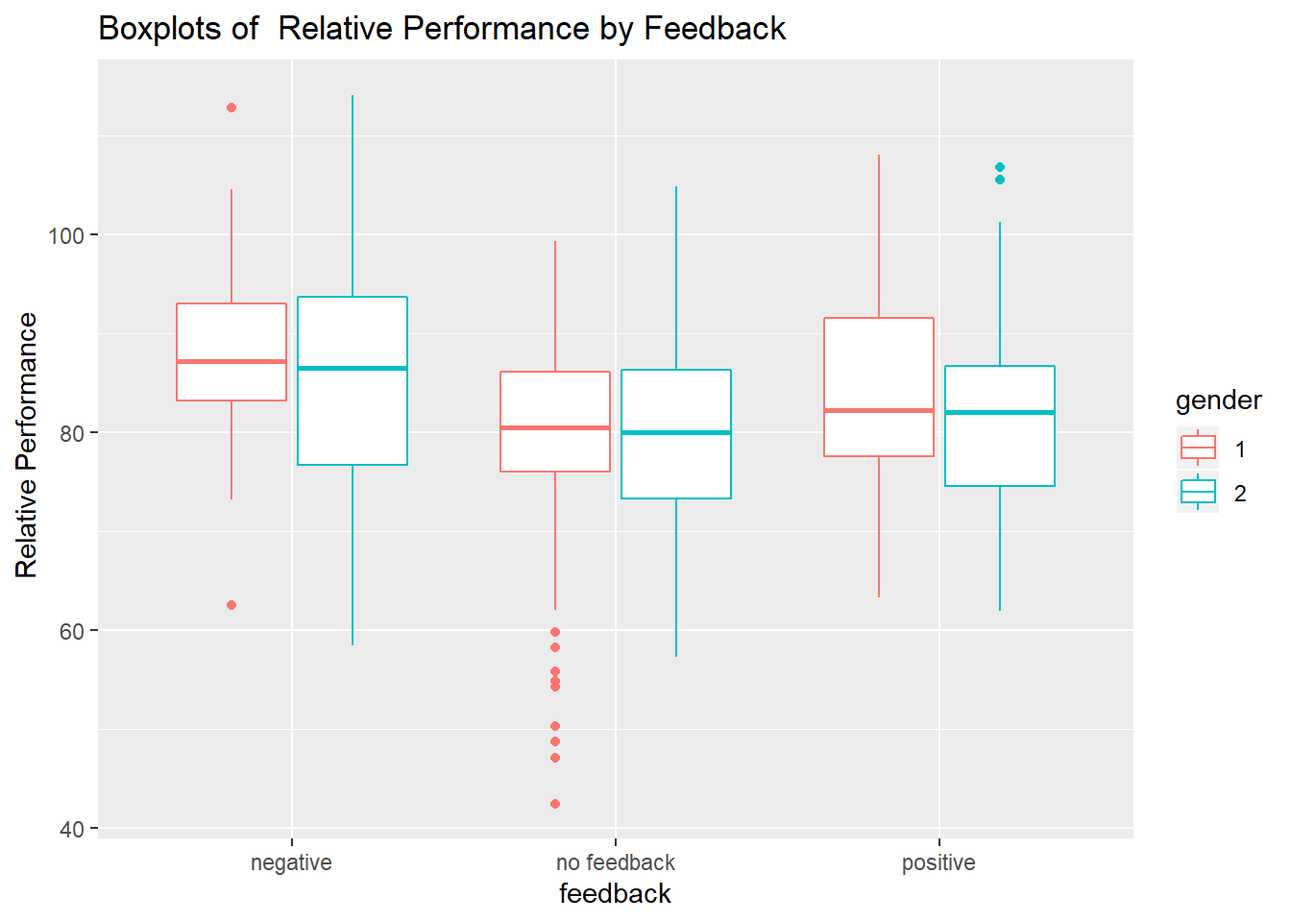
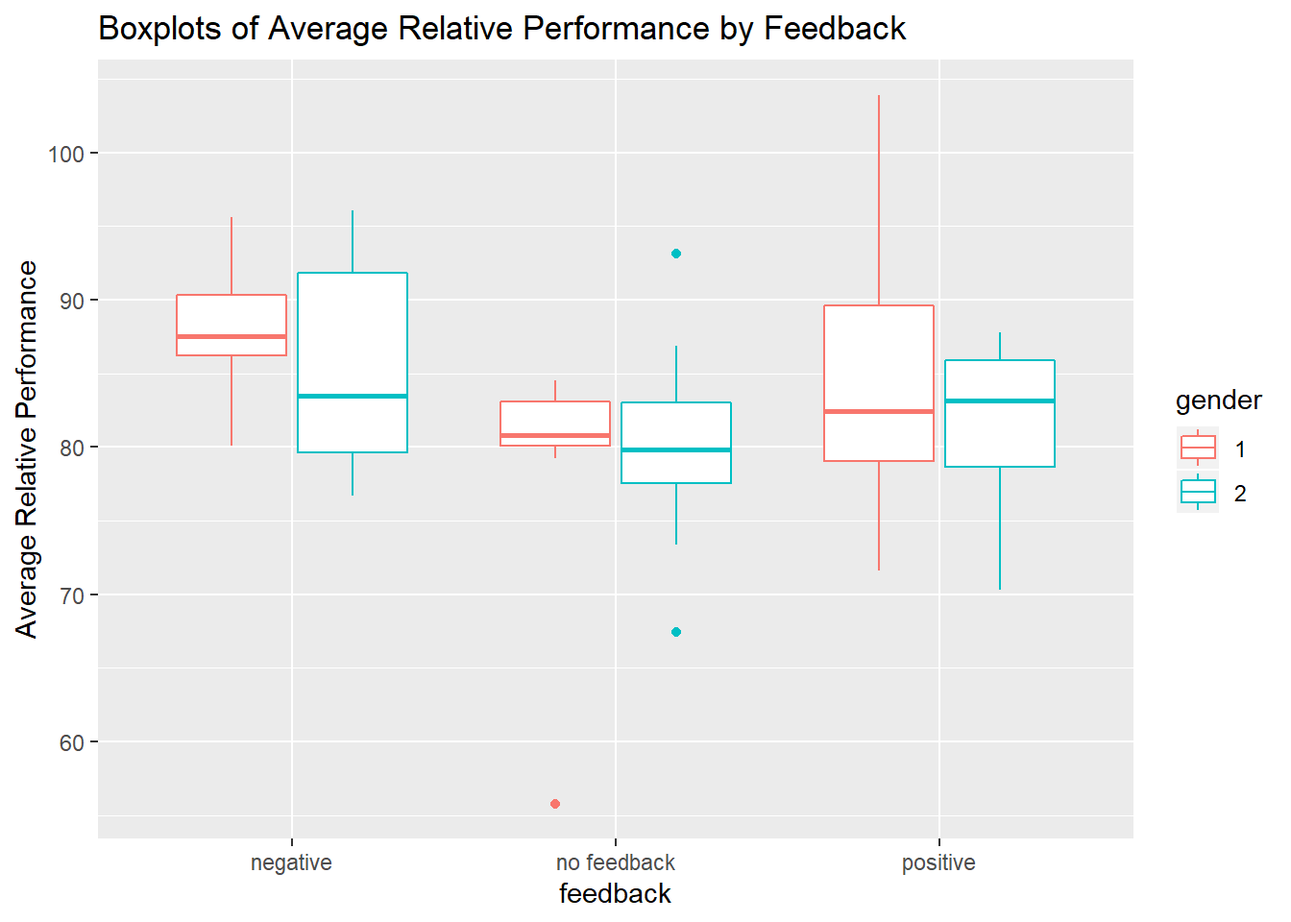
update anova

diff --git a/anova.html b/anova.html
@@ -476,9 +476,9 @@ div.tocify {
 ## 
 ## Linear Hypotheses:
 ##            Estimate Std. Error t value Pr(&gt;|t|)   
-## 2 - 1 == 0  -0.2741     0.6719  -0.408   0.9125   
-## 3 - 1 == 0   1.8481     0.6719   2.751   0.0201 * 
-## 3 - 2 == 0   2.1222     0.6518   3.256   0.0047 **
+## 2 - 1 == 0  -0.2741     0.6719  -0.408  0.91244   
+## 3 - 1 == 0   1.8481     0.6719   2.751  0.02003 * 
+## 3 - 2 == 0   2.1222     0.6518   3.256  0.00477 **
 ## ---
 ## Signif. codes:  0 &#39;***&#39; 0.001 &#39;**&#39; 0.01 &#39;*&#39; 0.05 &#39;.&#39; 0.1 &#39; &#39; 1
 ## (Adjusted p values reported -- single-step method)</code></pre>
@@ -562,15 +562,15 @@ div.tocify {
 ## 
 ## Fit: aov(formula = weight_loss ~ Diet, data = diet)
 ## 
-## Quantile = 2.3907
+## Quantile = 2.391
 ## 95% family-wise confidence level
 ##  
 ## 
 ## Linear Hypotheses:
 ##            Estimate lwr     upr    
-## 2 - 1 == 0 -0.2741  -1.8803  1.3322
-## 3 - 1 == 0  1.8481   0.2419  3.4544
-## 3 - 2 == 0  2.1222   0.5639  3.6805</code></pre>
+## 2 - 1 == 0 -0.2741  -1.8805  1.3324
+## 3 - 1 == 0  1.8481   0.2417  3.4546
+## 3 - 2 == 0  2.1222   0.5637  3.6807</code></pre>
 <div class="sourceCode" id="cb35"><pre class="sourceCode r"><code class="sourceCode r"><span id="cb35-1"><a href="#cb35-1" aria-hidden="true" tabindex="-1"></a><span class="fu">plot</span>(pairwise_ci_tukey, <span class="at">xlab =</span> <span class="st">&quot;Weight loss diff&quot;</span>)</span></code></pre></div>
 <p><img src="anova_files/figure-html/unnamed-chunk-11-1.png" width="672" /></p>
 </div>
@@ -646,7 +646,7 @@ H_0: \frac{\alpha_1+\alpha_2}{2}-\alpha_3=0 \leftrightarrow  \frac{\mu_1 + \mu_2
 <span id="cb42-3"><a href="#cb42-3" aria-hidden="true" tabindex="-1"></a>  <span class="fu">geom_boxplot</span>(<span class="at">outlier.colour=</span><span class="st">&quot;red&quot;</span>, <span class="at">outlier.shape=</span><span class="dv">8</span>,<span class="at">outlier.size=</span><span class="dv">2</span>) <span class="sc">+</span></span>
 <span id="cb42-4"><a href="#cb42-4" aria-hidden="true" tabindex="-1"></a>  <span class="fu">labs</span>(<span class="at">x=</span><span class="st">&quot;Diet Type&quot;</span>, <span class="at">y=</span> <span class="st">&quot;Weight Loss&quot;</span>) <span class="sc">+</span></span>
 <span id="cb42-5"><a href="#cb42-5" aria-hidden="true" tabindex="-1"></a>  <span class="fu">scale_color_discrete</span>(<span class="at">name =</span> <span class="st">&quot;Gender&quot;</span>, <span class="at">labels =</span> <span class="fu">c</span>(<span class="st">&quot;Female&quot;</span>, <span class="st">&quot;Male&quot;</span>))</span></code></pre></div>
-<p><img src="anova_files/figure-html/diet: Boxplot of weight lost by gender-1.png" width="672" /></p>
+<p><img src="anova_files/figure-html/diet%20Boxplot%20of%20weight%20lost%20by%20gender-1.png" width="672" /></p>
 <div class="sourceCode" id="cb43"><pre class="sourceCode r"><code class="sourceCode r"><span id="cb43-1"><a href="#cb43-1" aria-hidden="true" tabindex="-1"></a>diet.aov2 <span class="ot">=</span> <span class="fu">aov</span>( weight_loss<span class="sc">~</span>Diet <span class="sc">+</span> gender ,<span class="at">data=</span>diet)</span>
 <span id="cb43-2"><a href="#cb43-2" aria-hidden="true" tabindex="-1"></a><span class="fu">summary</span>(diet.aov2) </span></code></pre></div>
 <pre><code>##             Df Sum Sq Mean Sq F value  Pr(&gt;F)   
@@ -657,7 +657,7 @@ H_0: \frac{\alpha_1+\alpha_2}{2}-\alpha_3=0 \leftrightarrow  \frac{\mu_1 + \mu_2
 ## Signif. codes:  0 &#39;***&#39; 0.001 &#39;**&#39; 0.01 &#39;*&#39; 0.05 &#39;.&#39; 0.1 &#39; &#39; 1
 ## 2 observations deleted due to missingness</code></pre>
 <div class="sourceCode" id="cb45"><pre class="sourceCode r"><code class="sourceCode r"><span id="cb45-1"><a href="#cb45-1" aria-hidden="true" tabindex="-1"></a><span class="fu">plot</span>(diet.aov2)</span></code></pre></div>
-<p><img src="anova_files/figure-html/diet: two-way checking assumptions-1.png" width="672" /><img src="anova_files/figure-html/diet: two-way checking assumptions-2.png" width="672" /><img src="anova_files/figure-html/diet: two-way checking assumptions-3.png" width="672" /><img src="anova_files/figure-html/diet: two-way checking assumptions-4.png" width="672" /></p>
+<p><img src="anova_files/figure-html/diet%20two-way%20checking%20assumptions-1.png" width="672" /><img src="anova_files/figure-html/diet%20two-way%20checking%20assumptions-2.png" width="672" /><img src="anova_files/figure-html/diet%20two-way%20checking%20assumptions-3.png" width="672" /><img src="anova_files/figure-html/diet%20two-way%20checking%20assumptions-4.png" width="672" /></p>
 <p><strong>F tests:</strong></p>
 <div class="sourceCode" id="cb46"><pre class="sourceCode r"><code class="sourceCode r"><span id="cb46-1"><a href="#cb46-1" aria-hidden="true" tabindex="-1"></a>diet.aov <span class="ot">=</span> <span class="fu">aov</span>(weight_loss<span class="sc">~</span>Diet,<span class="at">data=</span>diet[<span class="sc">!</span><span class="fu">is.na</span>(diet<span class="sc">$</span>gender),] )</span>
 <span id="cb46-2"><a href="#cb46-2" aria-hidden="true" tabindex="-1"></a><span class="fu">anova</span>( diet.aov, diet.aov2)</span></code></pre></div>
@@ -692,7 +692,7 @@ H_0: \frac{\alpha_1+\alpha_2}{2}-\alpha_3=0 \leftrightarrow  \frac{\mu_1 + \mu_2
 <span id="cb50-8"><a href="#cb50-8" aria-hidden="true" tabindex="-1"></a>                 <span class="at">pch=</span><span class="fu">c</span>(<span class="dv">1</span>,<span class="dv">8</span>), <span class="at">col =</span> <span class="fu">c</span>(<span class="st">&quot;#FF6347&quot;</span>, <span class="st">&quot;#3CB371&quot;</span>))</span></code></pre></div>
 <p><img src="anova_files/figure-html/interatcion%20plot%20diet-1.png" width="672" /></p>
 <div class="sourceCode" id="cb51"><pre class="sourceCode r"><code class="sourceCode r"><span id="cb51-1"><a href="#cb51-1" aria-hidden="true" tabindex="-1"></a><span class="fu">plot</span>(diet.aov2_intr)</span></code></pre></div>
-<p><img src="anova_files/figure-html/two-way%20with%20interaction%20checking%20assumptions-1.png" width="672" /><img src="anova_files/figure-html/two-way%20with%20interaction%20checking%20assumptions-2.png" width="672" /><img src="anova_files/figure-html/two-way%20with%20interaction%20checking%20assumptions-3.png" width="672" /><img src="anova_files/figure-html/two-way%20with%20interaction%20checking%20assumptions-4.png" width="672" /></p>
+<p><img src="anova_files/figure-html/unnamed-chunk-16-1.png" width="672" /><img src="anova_files/figure-html/unnamed-chunk-16-2.png" width="672" /><img src="anova_files/figure-html/unnamed-chunk-16-3.png" width="672" /><img src="anova_files/figure-html/unnamed-chunk-16-4.png" width="672" /></p>
 <p><strong>Levin’s test</strong></p>
 <div class="sourceCode" id="cb52"><pre class="sourceCode r"><code class="sourceCode r"><span id="cb52-1"><a href="#cb52-1" aria-hidden="true" tabindex="-1"></a>diet <span class="ot">=</span> diet[<span class="sc">!</span><span class="fu">is.na</span>(diet<span class="sc">$</span>gender),]</span>
 <span id="cb52-2"><a href="#cb52-2" aria-hidden="true" tabindex="-1"></a>groups_df <span class="ot">=</span> <span class="fu">cbind</span> ( <span class="fu">expand.grid</span>(<span class="at">Diet =</span> <span class="fu">unique</span>(diet<span class="sc">$</span>Diet),<span class="at">gender =</span>  <span class="fu">unique</span>(diet<span class="sc">$</span>gender)), <span class="at">group =</span> <span class="fu">factor</span>(<span class="dv">1</span><span class="sc">:</span><span class="dv">6</span>))</span>
@@ -992,30 +992,30 @@ Ranking of movies from different genres by women and men.</p>
 <span id="cb82-3"><a href="#cb82-3" aria-hidden="true" tabindex="-1"></a>  <span class="fu">ggplot</span>(<span class="fu">aes</span>(<span class="at">x=</span>feedback , <span class="at">y=</span>mean_per, <span class="at">color =</span> feedback)) <span class="sc">+</span></span>
 <span id="cb82-4"><a href="#cb82-4" aria-hidden="true" tabindex="-1"></a>  <span class="fu">geom_boxplot</span>() <span class="sc">+</span> <span class="fu">theme</span>(<span class="at">legend.position =</span> <span class="st">&quot;&quot;</span>) <span class="sc">+</span></span>
 <span id="cb82-5"><a href="#cb82-5" aria-hidden="true" tabindex="-1"></a>  <span class="fu">labs</span>(<span class="at">title =</span> <span class="st">&quot;Boxplots of Average Relative Performance by Feedback&quot;</span> , <span class="at">y =</span> <span class="st">&quot;Average Relative Performance&quot;</span>)</span></code></pre></div>
-<p><img src="anova_files/figure-html/unnamed-chunk-27-1.png" width="672" /></p>
+<p><img src="anova_files/figure-html/unnamed-chunk-28-1.png" width="672" /></p>
 <div class="sourceCode" id="cb83"><pre class="sourceCode r"><code class="sourceCode r"><span id="cb83-1"><a href="#cb83-1" aria-hidden="true" tabindex="-1"></a>feedback_long_df_mvc <span class="sc">%&gt;%</span> </span>
 <span id="cb83-2"><a href="#cb83-2" aria-hidden="true" tabindex="-1"></a>  <span class="fu">ggplot</span>(<span class="fu">aes</span>(<span class="at">x=</span>feedback , <span class="at">y=</span>performance, <span class="at">color =</span> feedback)) <span class="sc">+</span></span>
 <span id="cb83-3"><a href="#cb83-3" aria-hidden="true" tabindex="-1"></a>  <span class="fu">geom_boxplot</span>() <span class="sc">+</span> <span class="fu">theme</span>(<span class="at">legend.position =</span> <span class="st">&quot;&quot;</span>) <span class="sc">+</span></span>
 <span id="cb83-4"><a href="#cb83-4" aria-hidden="true" tabindex="-1"></a>  <span class="fu">labs</span>(<span class="at">title =</span> <span class="st">&quot;Boxplots of Relative Performance by Feedback&quot;</span> , <span class="at">y =</span> <span class="st">&quot;Relative Performance&quot;</span>)</span></code></pre></div>
-<p><img src="anova_files/figure-html/unnamed-chunk-28-1.png" width="672" /></p>
+<p><img src="anova_files/figure-html/unnamed-chunk-29-1.png" width="672" /></p>
 <div class="sourceCode" id="cb84"><pre class="sourceCode r"><code class="sourceCode r"><span id="cb84-1"><a href="#cb84-1" aria-hidden="true" tabindex="-1"></a>feedback_long_df_mvc <span class="sc">%&gt;%</span> <span class="fu">group_by</span>(id, feedback, gender) <span class="sc">%&gt;%</span></span>
 <span id="cb84-2"><a href="#cb84-2" aria-hidden="true" tabindex="-1"></a>  <span class="fu">summarise</span>(<span class="at">mean_per =</span> <span class="fu">mean</span>(performance)) <span class="sc">%&gt;%</span></span>
 <span id="cb84-3"><a href="#cb84-3" aria-hidden="true" tabindex="-1"></a>  <span class="fu">ggplot</span>(<span class="fu">aes</span>(<span class="at">x=</span>feedback , <span class="at">y=</span>mean_per, <span class="at">color =</span> gender)) <span class="sc">+</span></span>
 <span id="cb84-4"><a href="#cb84-4" aria-hidden="true" tabindex="-1"></a>  <span class="fu">geom_boxplot</span>() <span class="sc">+</span></span>
 <span id="cb84-5"><a href="#cb84-5" aria-hidden="true" tabindex="-1"></a>  <span class="fu">labs</span>(<span class="at">title =</span> <span class="st">&quot;Boxplots of Average Relative Performance by Feedback&quot;</span> , <span class="at">y =</span> <span class="st">&quot;Average Relative Performance&quot;</span>)</span></code></pre></div>
-<p><img src="anova_files/figure-html/unnamed-chunk-29-1.png" width="672" /></p>
+<p><img src="anova_files/figure-html/unnamed-chunk-30-1.png" width="672" /></p>
 <div class="sourceCode" id="cb85"><pre class="sourceCode r"><code class="sourceCode r"><span id="cb85-1"><a href="#cb85-1" aria-hidden="true" tabindex="-1"></a>feedback_long_df_mvc <span class="sc">%&gt;%</span> </span>
 <span id="cb85-2"><a href="#cb85-2" aria-hidden="true" tabindex="-1"></a>  <span class="fu">ggplot</span>(<span class="fu">aes</span>(<span class="at">x=</span>feedback , <span class="at">y=</span>performance, <span class="at">color =</span> gender)) <span class="sc">+</span></span>
 <span id="cb85-3"><a href="#cb85-3" aria-hidden="true" tabindex="-1"></a>  <span class="fu">geom_boxplot</span>() <span class="sc">+</span></span>
 <span id="cb85-4"><a href="#cb85-4" aria-hidden="true" tabindex="-1"></a>  <span class="fu">labs</span>(<span class="at">title =</span> <span class="st">&quot;Boxplots of  Relative Performance by Feedback&quot;</span> , <span class="at">y =</span> <span class="st">&quot; Relative Performance&quot;</span>)</span></code></pre></div>
-<p><img src="anova_files/figure-html/unnamed-chunk-30-1.png" width="672" /></p>
+<p><img src="anova_files/figure-html/unnamed-chunk-31-1.png" width="672" /></p>
 <div class="sourceCode" id="cb86"><pre class="sourceCode r"><code class="sourceCode r"><span id="cb86-1"><a href="#cb86-1" aria-hidden="true" tabindex="-1"></a>feedback_long_df_mvc <span class="sc">%&gt;%</span> <span class="fu">group_by</span>(feedback, time) <span class="sc">%&gt;%</span> <span class="fu">summarise</span>(<span class="at">mean_perf =</span> <span class="fu">mean</span>(performance)) <span class="sc">%&gt;%</span></span>
 <span id="cb86-2"><a href="#cb86-2" aria-hidden="true" tabindex="-1"></a>  <span class="fu">ggplot</span>(<span class="fu">aes</span>(<span class="at">x=</span><span class="fu">factor</span>(time) , <span class="at">y=</span>mean_perf, <span class="at">color =</span> feedback, <span class="at">group =</span> feedback)) <span class="sc">+</span></span>
 <span id="cb86-3"><a href="#cb86-3" aria-hidden="true" tabindex="-1"></a>  <span class="fu">geom_point</span>() <span class="sc">+</span> </span>
 <span id="cb86-4"><a href="#cb86-4" aria-hidden="true" tabindex="-1"></a>  <span class="fu">geom_line</span>(<span class="at">alpha=</span>.<span class="dv">5</span>, <span class="at">size =</span> <span class="fl">1.5</span>) <span class="sc">+</span> </span>
 <span id="cb86-5"><a href="#cb86-5" aria-hidden="true" tabindex="-1"></a>  <span class="fu">labs</span>(<span class="at">title =</span> <span class="st">&quot;Average Relative Performance by Feedback &amp; Time&quot;</span> ,</span>
 <span id="cb86-6"><a href="#cb86-6" aria-hidden="true" tabindex="-1"></a>       <span class="at">x =</span> <span class="st">&quot;Repetitions&quot;</span> , <span class="at">y =</span> <span class="st">&quot;Average Relative Performance&quot;</span>)</span></code></pre></div>
-<p><img src="anova_files/figure-html/unnamed-chunk-31-1.png" width="672" /></p>
+<p><img src="anova_files/figure-html/unnamed-chunk-32-1.png" width="672" /></p>
 <div class="sourceCode" id="cb87"><pre class="sourceCode r"><code class="sourceCode r"><span id="cb87-1"><a href="#cb87-1" aria-hidden="true" tabindex="-1"></a>feedback_long_df_mvc <span class="sc">%&gt;%</span> <span class="fu">group_by</span>(feedback, time, gender) <span class="sc">%&gt;%</span> <span class="fu">summarise</span>(<span class="at">mean_perf =</span> <span class="fu">mean</span>(performance)) <span class="sc">%&gt;%</span></span>
 <span id="cb87-2"><a href="#cb87-2" aria-hidden="true" tabindex="-1"></a>  <span class="fu">ggplot</span>(<span class="fu">aes</span>(<span class="at">x=</span><span class="fu">factor</span>(time) , <span class="at">y=</span>mean_perf, <span class="at">color =</span> feedback, <span class="at">group =</span> feedback)) <span class="sc">+</span></span>
 <span id="cb87-3"><a href="#cb87-3" aria-hidden="true" tabindex="-1"></a>  <span class="fu">geom_point</span>() <span class="sc">+</span> </span>
@@ -1023,7 +1023,7 @@ Ranking of movies from different genres by women and men.</p>
 <span id="cb87-5"><a href="#cb87-5" aria-hidden="true" tabindex="-1"></a>  <span class="fu">facet_wrap</span>(<span class="sc">~</span>gender) <span class="sc">+</span> <span class="fu">theme</span>(<span class="at">legend.position =</span> <span class="st">&quot;bottom&quot;</span>) <span class="sc">+</span></span>
 <span id="cb87-6"><a href="#cb87-6" aria-hidden="true" tabindex="-1"></a>  <span class="fu">labs</span>(<span class="at">title =</span> <span class="st">&quot;Average Relative Performance by Feedback &amp; Time&quot;</span> , <span class="at">subtitle =</span> <span class="st">&quot;Facet by gender&quot;</span>,</span>
 <span id="cb87-7"><a href="#cb87-7" aria-hidden="true" tabindex="-1"></a>       <span class="at">x =</span> <span class="st">&quot;Repetitions&quot;</span> , <span class="at">y =</span> <span class="st">&quot;Average Relative Performance&quot;</span>)</span></code></pre></div>
-<p><img src="anova_files/figure-html/unnamed-chunk-32-1.png" width="672" /></p>
+<p><img src="anova_files/figure-html/unnamed-chunk-33-1.png" width="672" /></p>
 </div>
 <div id="analysis" class="section level3">
 <h3>Analysis</h3>
@@ -1054,11 +1054,11 @@ Ranking of movies from different genres by women and men.</p>
 <div class="sourceCode" id="cb92"><pre class="sourceCode r"><code class="sourceCode r"><span id="cb92-1"><a href="#cb92-1" aria-hidden="true" tabindex="-1"></a><span class="fu">ggplot</span>(feedback_long_df_mvc, <span class="fu">aes</span>(<span class="at">x =</span> gender, <span class="at">y =</span> performance, <span class="at">group =</span> feedback, <span class="at">col =</span> feedback)) <span class="sc">+</span> </span>
 <span id="cb92-2"><a href="#cb92-2" aria-hidden="true" tabindex="-1"></a>   <span class="fu">stat_summary</span>(<span class="at">fun.y =</span> mean, <span class="at">geom =</span> <span class="st">&quot;line&quot;</span>, <span class="at">size =</span> <span class="fl">1.5</span>) <span class="sc">+</span></span>
 <span id="cb92-3"><a href="#cb92-3" aria-hidden="true" tabindex="-1"></a>  <span class="fu">labs</span>(<span class="at">x=</span> <span class="st">&quot;Gender&quot;</span>, <span class="at">y=</span><span class="st">&quot;Relative Performance&quot;</span>)</span></code></pre></div>
-<p><img src="anova_files/figure-html/unnamed-chunk-35-1.png" width="672" /></p>
+<p><img src="anova_files/figure-html/unnamed-chunk-36-1.png" width="672" /></p>
 <div class="sourceCode" id="cb93"><pre class="sourceCode r"><code class="sourceCode r"><span id="cb93-1"><a href="#cb93-1" aria-hidden="true" tabindex="-1"></a><span class="fu">ggplot</span>(feedback_long_df_mvc, <span class="fu">aes</span>(<span class="at">x =</span> feedback, <span class="at">y =</span> performance, <span class="at">group =</span> gender, <span class="at">col =</span> gender)) <span class="sc">+</span> </span>
 <span id="cb93-2"><a href="#cb93-2" aria-hidden="true" tabindex="-1"></a>   <span class="fu">stat_summary</span>(<span class="at">fun.y =</span> mean, <span class="at">geom =</span> <span class="st">&quot;line&quot;</span>, <span class="at">size =</span> <span class="fl">1.5</span>) <span class="sc">+</span></span>
 <span id="cb93-3"><a href="#cb93-3" aria-hidden="true" tabindex="-1"></a>  <span class="fu">labs</span>(<span class="at">x=</span> <span class="st">&quot;Feedback&quot;</span>, <span class="at">y=</span><span class="st">&quot;Relative Performance&quot;</span>)</span></code></pre></div>
-<p><img src="anova_files/figure-html/unnamed-chunk-36-1.png" width="672" /></p>
+<p><img src="anova_files/figure-html/unnamed-chunk-37-1.png" width="672" /></p>
 <div class="sourceCode" id="cb94"><pre class="sourceCode r"><code class="sourceCode r"><span id="cb94-1"><a href="#cb94-1" aria-hidden="true" tabindex="-1"></a>fe.fit<span class="fl">.3</span> <span class="ot">=</span> <span class="fu">aov</span>(performance <span class="sc">~</span> feedback <span class="sc">*</span> gender , <span class="at">data =</span> feedback_long_df_mvc)</span>
 <span id="cb94-2"><a href="#cb94-2" aria-hidden="true" tabindex="-1"></a><span class="fu">anova</span>(fe.fit<span class="fl">.3</span>)</span></code></pre></div>
 <pre><code>## Analysis of Variance Table
@@ -1114,18 +1114,18 @@ Ranking of movies from different genres by women and men.</p>
 <span id="cb103-2"><a href="#cb103-2" aria-hidden="true" tabindex="-1"></a>feed_fit.<span class="fl">1.</span>predict <span class="ot">=</span> <span class="fu">predict</span>(feed_fit<span class="fl">.1</span>)</span>
 <span id="cb103-3"><a href="#cb103-3" aria-hidden="true" tabindex="-1"></a><span class="fu">plot</span>(feed_fit.<span class="fl">1.</span>predict,feed_fit.<span class="fl">1.</span>resid, <span class="at">xlab =</span> <span class="st">&quot;Fitted Values&quot;</span>, <span class="at">ylab =</span> <span class="st">&quot;Residuals&quot;</span>)</span>
 <span id="cb103-4"><a href="#cb103-4" aria-hidden="true" tabindex="-1"></a><span class="fu">abline</span>(<span class="dv">0</span>,<span class="dv">0</span>, <span class="at">col =</span> <span class="st">&quot;red&quot;</span>)</span></code></pre></div>
-<p><img src="anova_files/figure-html/Feedback: One-way Random Effect - checking assumptions-1.png" width="672" /></p>
+<p><img src="anova_files/figure-html/Feedback%20One%20way%20Random%20Effect%20%20checking%20assumptions-1.png" width="672" /></p>
 <div class="sourceCode" id="cb104"><pre class="sourceCode r"><code class="sourceCode r"><span id="cb104-1"><a href="#cb104-1" aria-hidden="true" tabindex="-1"></a>sresid <span class="ot">=</span> feed_fit.<span class="fl">1.</span>resid <span class="sc">/</span> <span class="fu">sd</span>(feed_fit.<span class="fl">1.</span>resid)</span>
 <span id="cb104-2"><a href="#cb104-2" aria-hidden="true" tabindex="-1"></a><span class="fu">qqnorm</span>(sresid) </span>
 <span id="cb104-3"><a href="#cb104-3" aria-hidden="true" tabindex="-1"></a><span class="fu">abline</span>(<span class="at">a =</span> <span class="dv">0</span> , <span class="at">b =</span> <span class="dv">1</span>) <span class="co"># add line: y=x </span></span></code></pre></div>
-<p><img src="anova_files/figure-html/Feedback: One-way Random Effect - checking assumptions2-1.png" width="672" /></p>
+<p><img src="anova_files/figure-html/Feedback%20One%20way%20Random%20Effect%20%20checking%20assumptions2-1.png" width="672" /></p>
 <div class="sourceCode" id="cb105"><pre class="sourceCode r"><code class="sourceCode r"><span id="cb105-1"><a href="#cb105-1" aria-hidden="true" tabindex="-1"></a><span class="co"># we can also use: </span></span>
 <span id="cb105-2"><a href="#cb105-2" aria-hidden="true" tabindex="-1"></a><span class="co"># qqline(sresid)</span></span></code></pre></div>
 <p>We can also get “estimates” (conditional means) of the random effects <span class="math inline">\(a_i\)</span> with the function <code>ranef</code>:</p>
 <div class="sourceCode" id="cb106"><pre class="sourceCode r"><code class="sourceCode r"><span id="cb106-1"><a href="#cb106-1" aria-hidden="true" tabindex="-1"></a>sresid_ref <span class="ot">=</span> <span class="fu">ranef</span>(feed_fit<span class="fl">.1</span>)<span class="sc">$</span>id[, <span class="st">&quot;(Intercept)&quot;</span>] <span class="sc">/</span> <span class="fu">sd</span>(<span class="fu">ranef</span>(feed_fit<span class="fl">.1</span>)<span class="sc">$</span>id[, <span class="st">&quot;(Intercept)&quot;</span>])</span>
 <span id="cb106-2"><a href="#cb106-2" aria-hidden="true" tabindex="-1"></a><span class="fu">qqnorm</span>(sresid_ref, <span class="at">main =</span> <span class="st">&quot;Random effects&quot;</span>)</span>
 <span id="cb106-3"><a href="#cb106-3" aria-hidden="true" tabindex="-1"></a><span class="fu">qqline</span>(sresid_ref)</span></code></pre></div>
-<p><img src="anova_files/figure-html/Feedback: One-way Random Effect - checking assumptions3-1.png" width="672" /></p>
+<p><img src="anova_files/figure-html/Feedback%20One%20way%20Random%20Effect%20%20checking%20assumptions3-1.png" width="672" /></p>
 </div>
 <div id="mixed-model-random-effect" class="section level4">
 <h4>Mixed Model Random Effect</h4>
@@ -1192,11 +1192,11 @@ Ranking of movies from different genres by women and men.</p>
 <span id="cb114-17"><a href="#cb114-17" aria-hidden="true" tabindex="-1"></a>  <span class="fu">qqline</span>(sresid)</span>
 <span id="cb114-18"><a href="#cb114-18" aria-hidden="true" tabindex="-1"></a>}</span></code></pre></div>
 <div class="sourceCode" id="cb115"><pre class="sourceCode r"><code class="sourceCode r"><span id="cb115-1"><a href="#cb115-1" aria-hidden="true" tabindex="-1"></a><span class="fu">resid_plot</span>(feed_fit<span class="fl">.2</span>)</span></code></pre></div>
-<p><img src="anova_files/figure-html/Feedback: Mixed Model Random Effect - checking assumptions 1-1.png" width="672" /></p>
+<p><img src="anova_files/figure-html/Feedback%20%20Mixed%20Model%20Random%20Effect%20%20checking%20assumptions%201-1.png" width="672" /></p>
 <div class="sourceCode" id="cb116"><pre class="sourceCode r"><code class="sourceCode r"><span id="cb116-1"><a href="#cb116-1" aria-hidden="true" tabindex="-1"></a><span class="fu">qq_plot</span>(feed_fit<span class="fl">.2</span>)</span></code></pre></div>
-<p><img src="anova_files/figure-html/Feedback: Mixed Model Random Effect - checking assumptions 1-2.png" width="672" /></p>
+<p><img src="anova_files/figure-html/Feedback%20%20Mixed%20Model%20Random%20Effect%20%20checking%20assumptions%201-2.png" width="672" /></p>
 <div class="sourceCode" id="cb117"><pre class="sourceCode r"><code class="sourceCode r"><span id="cb117-1"><a href="#cb117-1" aria-hidden="true" tabindex="-1"></a><span class="fu">qq_plot_ref</span>(feed_fit<span class="fl">.2</span>)</span></code></pre></div>
-<p><img src="anova_files/figure-html/Feedback: Mixed Model Random Effect - checking assumptions 1-3.png" width="672" /></p>
+<p><img src="anova_files/figure-html/Feedback%20%20Mixed%20Model%20Random%20Effect%20%20checking%20assumptions%201-3.png" width="672" /></p>
 </div>
 <div id="option-2-1" class="section level5">
 <h5><strong>Option 2</strong></h5>
@@ -1247,11 +1247,11 @@ Ranking of movies from different genres by women and men.</p>
 ## feedbackpositive    -5.377742 -2.176461</code></pre>
 <p><strong>Checking Assumptions</strong></p>
 <div class="sourceCode" id="cb125"><pre class="sourceCode r"><code class="sourceCode r"><span id="cb125-1"><a href="#cb125-1" aria-hidden="true" tabindex="-1"></a><span class="fu">resid_plot</span>(feed_fit<span class="fl">.3</span>)</span></code></pre></div>
-<p><img src="anova_files/figure-html/Feedback: Mixed Model Random Effect - checking assumptions 2-1.png" width="672" /></p>
+<p><img src="anova_files/figure-html/Feedback%20%20Mixed%20Model%20Random%20Effect%20%20checking%20assumptions%202-1.png" width="672" /></p>
 <div class="sourceCode" id="cb126"><pre class="sourceCode r"><code class="sourceCode r"><span id="cb126-1"><a href="#cb126-1" aria-hidden="true" tabindex="-1"></a><span class="fu">qq_plot</span>(feed_fit<span class="fl">.3</span>)</span></code></pre></div>
-<p><img src="anova_files/figure-html/Feedback: Mixed Model Random Effect - checking assumptions 2-2.png" width="672" /></p>
+<p><img src="anova_files/figure-html/Feedback%20%20Mixed%20Model%20Random%20Effect%20%20checking%20assumptions%202-2.png" width="672" /></p>
 <div class="sourceCode" id="cb127"><pre class="sourceCode r"><code class="sourceCode r"><span id="cb127-1"><a href="#cb127-1" aria-hidden="true" tabindex="-1"></a><span class="fu">qq_plot_ref</span>(feed_fit<span class="fl">.3</span>)</span></code></pre></div>
-<p><img src="anova_files/figure-html/Feedback: Mixed Model Random Effect - checking assumptions 2-3.png" width="672" /></p>
+<p><img src="anova_files/figure-html/Feedback%20%20Mixed%20Model%20Random%20Effect%20%20checking%20assumptions%202-3.png" width="672" /></p>
 </div>
 <div id="option-3" class="section level5">
 <h5><strong>Option 3</strong></h5>
@@ -3680,11 +3680,11 @@ Ranking of movies from different genres by women and men.</p>
 ## 2376 22      2   12    66.27830 no feedback   emg_tr</code></pre>
 <p><strong>Checking Assumptions</strong></p>
 <div class="sourceCode" id="cb134"><pre class="sourceCode r"><code class="sourceCode r"><span id="cb134-1"><a href="#cb134-1" aria-hidden="true" tabindex="-1"></a><span class="fu">resid_plot</span>(feed_fit<span class="fl">.4</span>)</span></code></pre></div>
-<p><img src="anova_files/figure-html/Feedback: Mixed Model Random Effect - checking assumptions 3-1.png" width="672" /></p>
+<p><img src="anova_files/figure-html/Feedback%20Mixed%20Model%20Random%20Effect%20checking%20assumptions%203-1.png" width="672" /></p>
 <div class="sourceCode" id="cb135"><pre class="sourceCode r"><code class="sourceCode r"><span id="cb135-1"><a href="#cb135-1" aria-hidden="true" tabindex="-1"></a><span class="fu">qq_plot</span>(feed_fit<span class="fl">.4</span>)</span></code></pre></div>
-<p><img src="anova_files/figure-html/Feedback: Mixed Model Random Effect - checking assumptions 3-2.png" width="672" /></p>
+<p><img src="anova_files/figure-html/Feedback%20Mixed%20Model%20Random%20Effect%20checking%20assumptions%203-2.png" width="672" /></p>
 <div class="sourceCode" id="cb136"><pre class="sourceCode r"><code class="sourceCode r"><span id="cb136-1"><a href="#cb136-1" aria-hidden="true" tabindex="-1"></a><span class="fu">qq_plot_ref</span>(feed_fit<span class="fl">.4</span>)</span></code></pre></div>
-<p><img src="anova_files/figure-html/Feedback: Mixed Model Random Effect - checking assumptions 3-3.png" width="672" /></p>
+<p><img src="anova_files/figure-html/Feedback%20Mixed%20Model%20Random%20Effect%20checking%20assumptions%203-3.png" width="672" /></p>
 </div>
 </div>
 </div>
